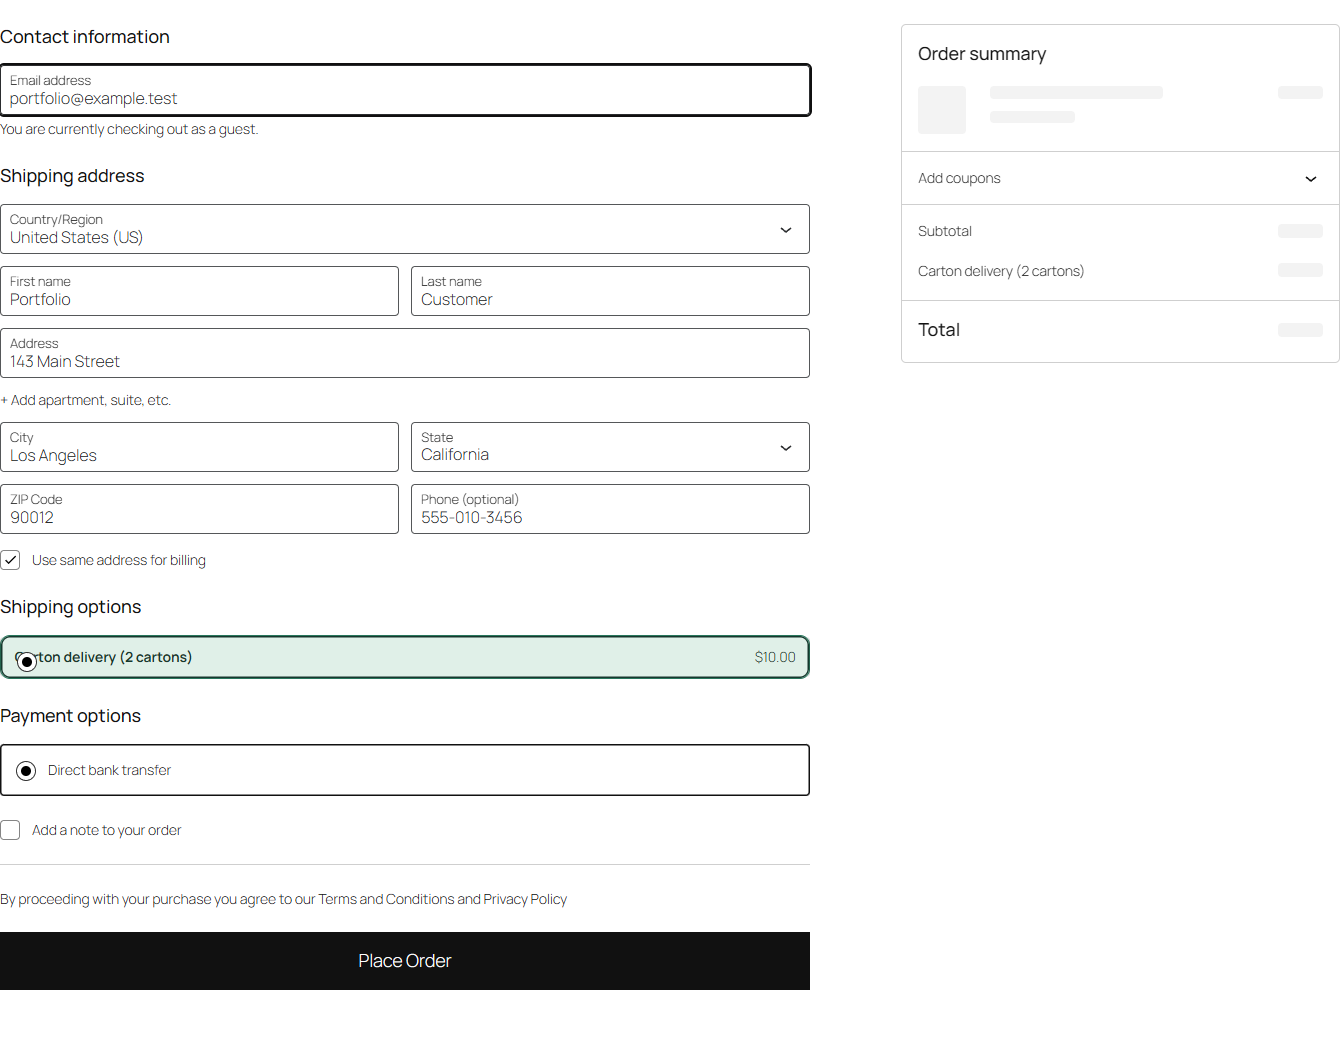
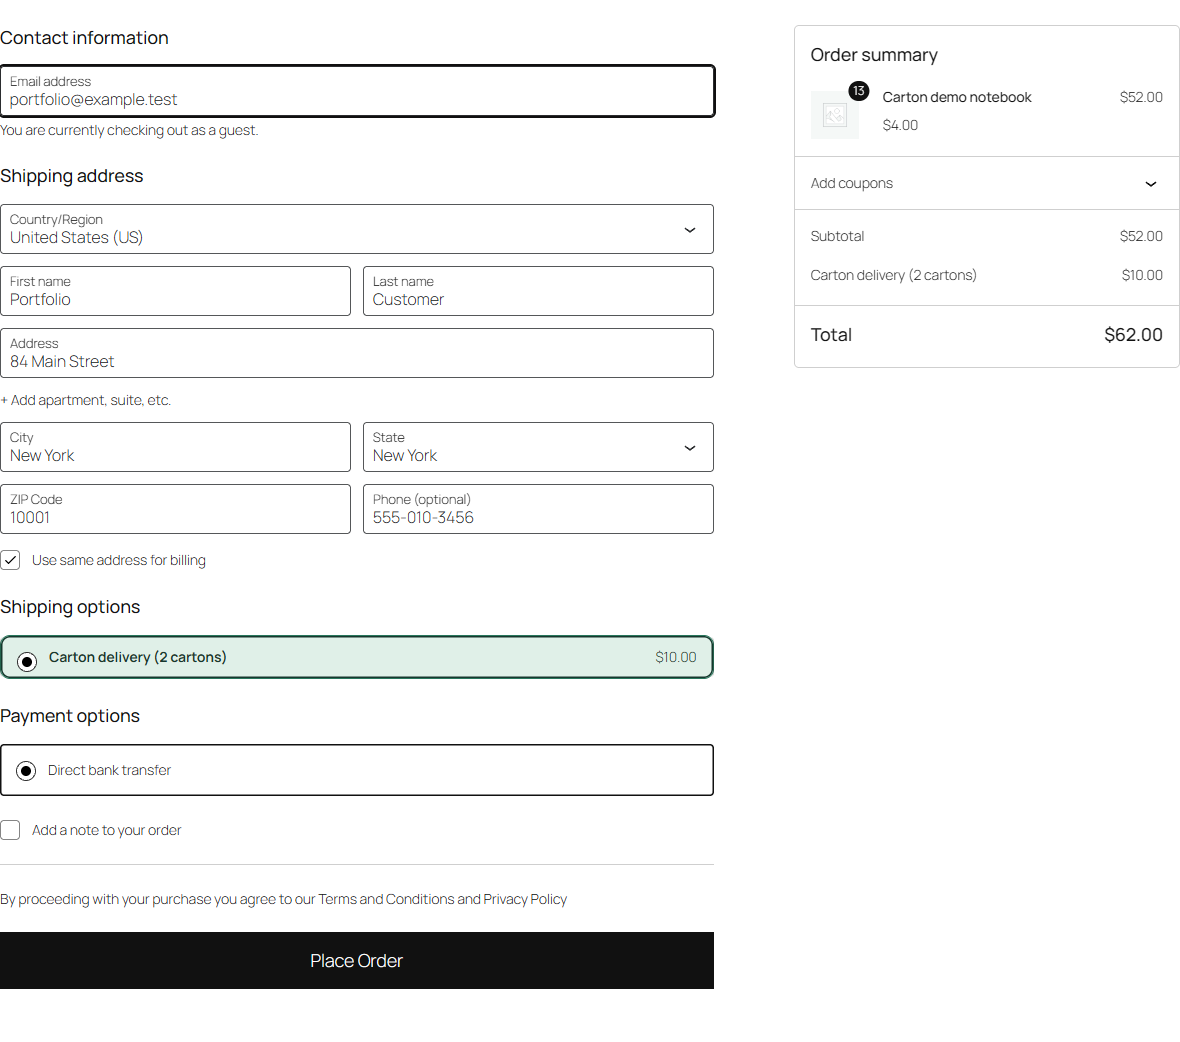
Use English screenshots and verify the portfolio evidence (#4)

diff --git a/assets/checkout.css b/assets/checkout.css
@@ -1,8 +1,16 @@
+.woocommerce-checkout #shipping_method li:has(input[value^="codexawp_carton_demo"]) {
+	padding: .7rem .85rem;
+}
+
+.wc-block-checkout .wc-block-components-radio-control__option:has(input[value^="codexawp_carton_demo"]) {
+	/* Keep the native radio control gutter when a long rate label wraps. */
+	padding-block: .7rem;
+}
+
 .woocommerce-checkout #shipping_method li:has(input[value^="codexawp_carton_demo"]),
 .wc-block-checkout .wc-block-components-radio-control__option:has(input[value^="codexawp_carton_demo"]) {
 	border: 1px solid #bdcfc5;
 	border-radius: 10px;
-	padding: .7rem .85rem;
 	background: #f2f7f4;
 	color: #16382d;
 }

diff --git a/README.md b/README.md
@@ -10,6 +10,8 @@ With 12 units per carton, placing 13 units in the cart should charge for two car
 
 ![WooCommerce block checkout displaying Carton delivery (2 cartons) for $10](docs/checkout-block.png)
 
+[Classic Checkout order summary](docs/checkout-classic.png) · [Mobile shipping options](docs/checkout-mobile.png)
+
 ## Try it locally
 
 Download the [latest verified installation ZIP](https://github.com/aa71200/woo-carton-shipping-demo/releases/latest) and upload it under **Plugins → Add New → Upload Plugin**, or use the source setup below. If version 1.0.0 is already installed, choose **Replace current with uploaded** to install the refreshed build.
